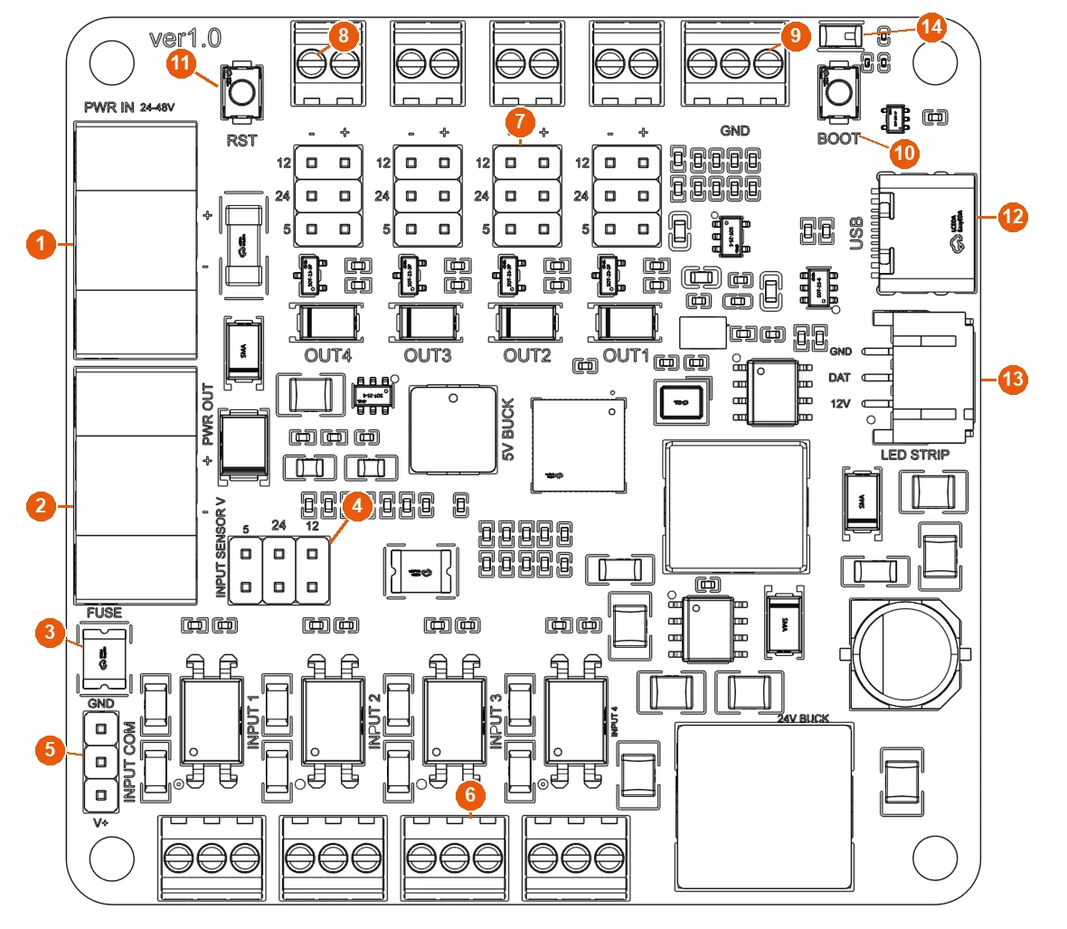
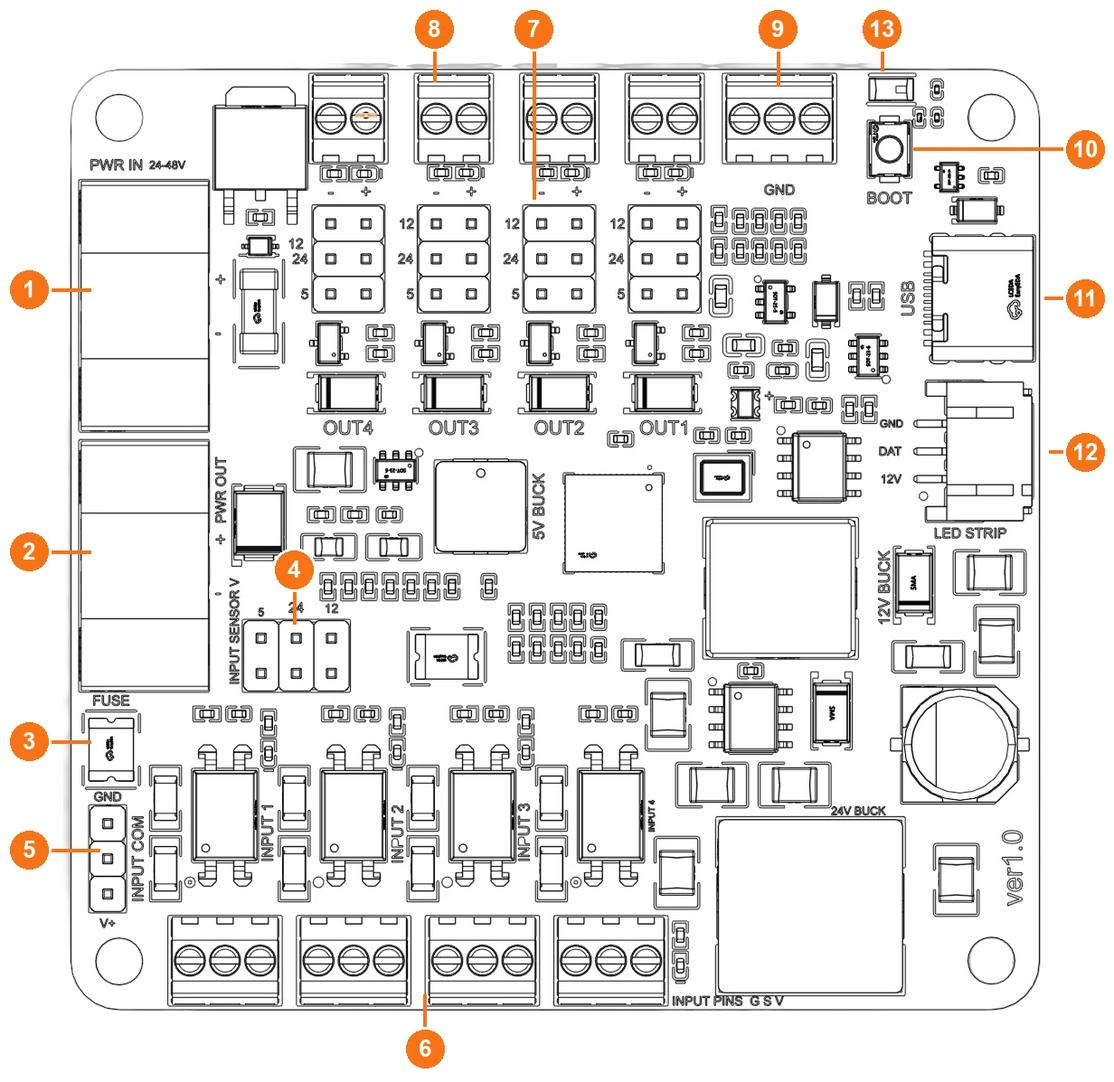
ncWirelessIO page: real board images for every port and jumper
Replace the drawn diagrams with crops of the board render, with the
shunt positions and wires drawn on top: power in/out, the input row,
INPUT SENSOR V and INPUT COM settings, the output row and an output
jumper, NPN/PNP/switch sensors on INPUT 1, a solenoid on OUT1 and the
LED strip. The numbered map uses the updated line drawing (RST is gone,
"INPUT PINS: G S V" is printed beside the inputs), renumbered 1-13.

Claude-Session: https://claude.ai/code/session_01Xn5gzCDA1tBYBqbFbZJGj5

diff --git a/docs/assets/css/custom.css b/docs/assets/css/custom.css
@@ -211,5 +211,6 @@ img.placeholder[src$=".webp"]::after {
 
 /* ncWirelessIO wiring diagrams: inline SVG drawn in currentColor, so they follow the theme. */
 .wio-fig { margin: 1rem 0; text-align: center; }
+.wio-fig img { max-height: 26rem; width: auto; max-width: 100%; }
 .wio-fig svg.wio-svg { max-width: 100%; height: auto; color: var(--md-default-fg-color); }
 .wio-fig figcaption { font-size: 0.75rem; color: var(--md-default-fg-color--light); }

diff --git a/docs/accessories/ncwirelessio.md b/docs/accessories/ncwirelessio.md
@@ -46,18 +46,17 @@ Everything is printed on the board. The numbers below match the picture.
 | 3 | **FUSE** | Resettable fuse for the sensor supply |
 | 4 | **INPUT SENSOR V** `5` `24` `12` | Jumper: the voltage on every input's `V` screw |
 | 5 | **INPUT COM** `GND` … `V+` | Jumper: PNP or NPN sensors |
-| 6 | **INPUT 1** … **INPUT 4** (left to right) | Input terminals, 3 screws each: `G` `S` `V` |
+| 6 | **INPUT 1** … **INPUT 4** (left to right) | Input terminals. **INPUT PINS: G S V** is printed beside them |
 | 7 | Output jumpers, rows `12` `24` `5` | One per output, above its terminal: that output's voltage |
 | 8 | Output terminals `−` `+` | One per output. From the left: **OUT4**, **OUT3**, **OUT2**, **OUT1** (printed below the jumpers) |
 | 9 | **GND** | Three spare ground screws |
 | 10 | **BOOT** | Pairing button |
-| 11 | **RST** | Restarts the board |
-| 12 | **USB** | USB-C |
-| 13 | **LED STRIP** `GND` `DAT` `12V` | Plug for the LED strip |
-| 14 | Status light | Shows machine state and pairing (see [Status light](#status-light)) |
+| 11 | **USB** | USB-C |
+| 12 | **LED STRIP** `GND` `DAT` `12V` | Plug for the LED strip |
+| 13 | Status light | Shows machine state and pairing (see [Status light](#status-light)) |
 
-The underside repeats the terminal names (**INPUT 1** … and `V S G`), so you can
-check your wiring with the board turned over.
+The underside repeats the terminal names (**INPUT 1** … and `V S G`, mirrored), so
+you can check your wiring with the board turned over.
 
 ## Power
 
@@ -65,8 +64,8 @@ Connect a **24–48 V DC** supply to **PWR IN**: `+` to the supply's positive,
 `−` to its negative.
 
 <figure class="wio-fig" markdown>
-<svg class="wio-svg" viewBox="0 0 670 160" width="670" role="img" aria-label="Power supply to PWR IN; PWR OUT passes the same supply on to another device" xmlns="http://www.w3.org/2000/svg" font-family="ui-sans-serif,system-ui,sans-serif" font-size="13"><rect x="20" y="40" width="150" height="70" rx="8" fill="none" stroke="currentColor" stroke-width="1.5"/><text x="95" y="70" text-anchor="middle" font-size="13" font-weight="600" fill="currentColor">Power supply</text><text x="95" y="90" text-anchor="middle" font-size="11" fill="#9ca3af">24–48 V DC</text><rect x="250" y="48" width="80" height="54" rx="4" fill="#16a34a" fill-opacity="0.18" stroke="#16a34a" stroke-width="1.5"/><circle cx="273" cy="66" r="9" fill="none" stroke="currentColor" stroke-width="1.5"/><line x1="267" y1="66" x2="279" y2="66" stroke="currentColor" stroke-width="1.5"/><rect x="265" y="82" width="16" height="12" rx="1" fill="none" stroke="currentColor" stroke-width="1.2"/><text x="273" y="120" text-anchor="middle" font-size="13" font-weight="600" fill="currentColor">+</text><circle cx="307" cy="66" r="9" fill="none" stroke="currentColor" stroke-width="1.5"/><line x1="301" y1="66" x2="313" y2="66" stroke="currentColor" stroke-width="1.5"/><rect x="299" y="82" width="16" height="12" rx="1" fill="none" stroke="currentColor" stroke-width="1.2"/><text x="307" y="120" text-anchor="middle" font-size="13" font-weight="600" fill="currentColor">−</text><text x="290.0" y="142" text-anchor="middle" font-size="12" font-weight="600" fill="#16a34a">PWR IN</text><path d="M170,58 L273,58" fill="none" stroke="#ef4444" stroke-width="3" stroke-linejoin="round" stroke-linecap="round"/><path d="M170,90 L215,90 L215,40 L307,40 L307,57" fill="none" stroke="#6b7280" stroke-width="3" stroke-linejoin="round" stroke-linecap="round"/><rect x="390" y="48" width="80" height="54" rx="4" fill="#16a34a" fill-opacity="0.18" stroke="#16a34a" stroke-width="1.5"/><circle cx="413" cy="66" r="9" fill="none" stroke="currentColor" stroke-width="1.5"/><line x1="407" y1="66" x2="419" y2="66" stroke="currentColor" stroke-width="1.5"/><rect x="405" y="82" width="16" height="12" rx="1" fill="none" stroke="currentColor" stroke-width="1.2"/><text x="413" y="120" text-anchor="middle" font-size="13" font-weight="600" fill="currentColor">+</text><circle cx="447" cy="66" r="9" fill="none" stroke="currentColor" stroke-width="1.5"/><line x1="441" y1="66" x2="453" y2="66" stroke="currentColor" stroke-width="1.5"/><rect x="439" y="82" width="16" height="12" rx="1" fill="none" stroke="currentColor" stroke-width="1.2"/><text x="447" y="120" text-anchor="middle" font-size="13" font-weight="600" fill="currentColor">−</text><text x="430.0" y="142" text-anchor="middle" font-size="12" font-weight="600" fill="#16a34a">PWR OUT</text><rect x="520" y="40" width="130" height="70" rx="8" fill="none" stroke="currentColor" stroke-width="1.5" stroke-dasharray="5 4"/><text x="585" y="70" text-anchor="middle" font-size="13" font-weight="600" fill="currentColor">Next device</text><text x="585" y="90" text-anchor="middle" font-size="11" fill="#9ca3af">(optional)</text><path d="M413,57 L413,30 L500,30 L500,60 L520,60" fill="none" stroke="#ef4444" stroke-width="3" stroke-linejoin="round" stroke-linecap="round"/><path d="M447,57 L447,38 L492,38 L492,90 L520,90" fill="none" stroke="#6b7280" stroke-width="3" stroke-linejoin="round" stroke-linecap="round"/></svg>
-<figcaption>PWR IN from the supply. PWR OUT can feed another device.</figcaption>
+![](../assets/images/accessories/ncwirelessio-power.webp)
+<figcaption>PWR IN from the supply (red +, black −). PWR OUT can feed another device.</figcaption>
 </figure>
 
 - Wired backwards, the board stays off and nothing is damaged. Swap the wires.
@@ -84,8 +83,8 @@ Connect a **24–48 V DC** supply to **PWR IN**: `+` to the supply's positive,
 Each input has a 3-screw terminal:
 
 <figure class="wio-fig" markdown>
-<svg class="wio-svg" viewBox="0 0 180 125" width="180" role="img" aria-label="Input terminal pins: G ground, S signal, V sensor supply" xmlns="http://www.w3.org/2000/svg" font-family="ui-sans-serif,system-ui,sans-serif" font-size="13"><rect x="30" y="20" width="114" height="54" rx="4" fill="#16a34a" fill-opacity="0.18" stroke="#16a34a" stroke-width="1.5"/><circle cx="53" cy="38" r="9" fill="none" stroke="currentColor" stroke-width="1.5"/><line x1="47" y1="38" x2="59" y2="38" stroke="currentColor" stroke-width="1.5"/><rect x="45" y="54" width="16" height="12" rx="1" fill="none" stroke="currentColor" stroke-width="1.2"/><text x="53" y="92" text-anchor="middle" font-size="13" font-weight="600" fill="currentColor">G</text><circle cx="87" cy="38" r="9" fill="none" stroke="currentColor" stroke-width="1.5"/><line x1="81" y1="38" x2="93" y2="38" stroke="currentColor" stroke-width="1.5"/><rect x="79" y="54" width="16" height="12" rx="1" fill="none" stroke="currentColor" stroke-width="1.2"/><text x="87" y="92" text-anchor="middle" font-size="13" font-weight="600" fill="currentColor">S</text><circle cx="121" cy="38" r="9" fill="none" stroke="currentColor" stroke-width="1.5"/><line x1="115" y1="38" x2="127" y2="38" stroke="currentColor" stroke-width="1.5"/><rect x="113" y="54" width="16" height="12" rx="1" fill="none" stroke="currentColor" stroke-width="1.2"/><text x="121" y="92" text-anchor="middle" font-size="13" font-weight="600" fill="currentColor">V</text><text x="87.0" y="114" text-anchor="middle" font-size="12" font-weight="600" fill="#16a34a">INPUT 1 … INPUT 4</text></svg>
-<figcaption>Every input terminal is the same.</figcaption>
+![](../assets/images/accessories/ncwirelessio-inputs.webp)
+<figcaption>INPUT 1 to INPUT 4, left to right. Every terminal is G, S, V.</figcaption>
 </figure>
 
 | Screw | Name | Wire it to |
@@ -104,8 +103,8 @@ The `V` screw on all four inputs carries the same voltage. Choose it with the
 `24` and `12`:
 
 <figure class="wio-fig" markdown>
-<svg class="wio-svg" viewBox="0 0 560 140" width="560" role="img" aria-label="INPUT SENSOR V jumper: columns printed 5, 24, 12. 5 V and 12 V use the bottom row, 24 V goes down the middle column" xmlns="http://www.w3.org/2000/svg" font-family="ui-sans-serif,system-ui,sans-serif" font-size="13"><text x="84" y="20" text-anchor="middle" font-size="13" font-weight="600" fill="currentColor">5 V</text><rect x="37" y="81" width="60" height="26" rx="5" fill="#f97316" fill-opacity="0.35" stroke="#f97316" stroke-width="2"/><rect x="41" y="85" width="18" height="18" rx="2" fill="none" stroke="currentColor" stroke-width="1.5"/><circle cx="50" cy="94" r="3.5" fill="currentColor"/><rect x="75" y="85" width="18" height="18" rx="2" fill="none" stroke="currentColor" stroke-width="1.5"/><circle cx="84" cy="94" r="3.5" fill="currentColor"/><rect x="109" y="85" width="18" height="18" rx="2" fill="none" stroke="currentColor" stroke-width="1.5"/><circle cx="118" cy="94" r="3.5" fill="currentColor"/><rect x="75" y="51" width="18" height="18" rx="2" fill="none" stroke="currentColor" stroke-width="1.5"/><circle cx="84" cy="60" r="3.5" fill="currentColor"/><rect x="41" y="51" width="18" height="18" rx="2" fill="none" stroke="currentColor" stroke-width="1.5"/><circle cx="50" cy="60" r="3.5" fill="currentColor"/><rect x="109" y="51" width="18" height="18" rx="2" fill="none" stroke="currentColor" stroke-width="1.5"/><circle cx="118" cy="60" r="3.5" fill="currentColor"/><text x="50" y="43" text-anchor="middle" font-size="12" font-weight="600" fill="currentColor">5</text><text x="84" y="43" text-anchor="middle" font-size="12" font-weight="600" fill="currentColor">24</text><text x="118" y="43" text-anchor="middle" font-size="12" font-weight="600" fill="currentColor">12</text><text x="274" y="20" text-anchor="middle" font-size="13" font-weight="600" fill="currentColor">24 V</text><rect x="261" y="47" width="26" height="60" rx="5" fill="#f97316" fill-opacity="0.35" stroke="#f97316" stroke-width="2"/><rect x="231" y="85" width="18" height="18" rx="2" fill="none" stroke="currentColor" stroke-width="1.5"/><circle cx="240" cy="94" r="3.5" fill="currentColor"/><rect x="265" y="85" width="18" height="18" rx="2" fill="none" stroke="currentColor" stroke-width="1.5"/><circle cx="274" cy="94" r="3.5" fill="currentColor"/><rect x="299" y="85" width="18" height="18" rx="2" fill="none" stroke="currentColor" stroke-width="1.5"/><circle cx="308" cy="94" r="3.5" fill="currentColor"/><rect x="265" y="51" width="18" height="18" rx="2" fill="none" stroke="currentColor" stroke-width="1.5"/><circle cx="274" cy="60" r="3.5" fill="currentColor"/><rect x="231" y="51" width="18" height="18" rx="2" fill="none" stroke="currentColor" stroke-width="1.5"/><circle cx="240" cy="60" r="3.5" fill="currentColor"/><rect x="299" y="51" width="18" height="18" rx="2" fill="none" stroke="currentColor" stroke-width="1.5"/><circle cx="308" cy="60" r="3.5" fill="currentColor"/><text x="240" y="43" text-anchor="middle" font-size="12" font-weight="600" fill="currentColor">5</text><text x="274" y="43" text-anchor="middle" font-size="12" font-weight="600" fill="currentColor">24</text><text x="308" y="43" text-anchor="middle" font-size="12" font-weight="600" fill="currentColor">12</text><text x="464" y="20" text-anchor="middle" font-size="13" font-weight="600" fill="currentColor">12 V</text><rect x="451" y="81" width="60" height="26" rx="5" fill="#f97316" fill-opacity="0.35" stroke="#f97316" stroke-width="2"/><rect x="421" y="85" width="18" height="18" rx="2" fill="none" stroke="currentColor" stroke-width="1.5"/><circle cx="430" cy="94" r="3.5" fill="currentColor"/><rect x="455" y="85" width="18" height="18" rx="2" fill="none" stroke="currentColor" stroke-width="1.5"/><circle cx="464" cy="94" r="3.5" fill="currentColor"/><rect x="489" y="85" width="18" height="18" rx="2" fill="none" stroke="currentColor" stroke-width="1.5"/><circle cx="498" cy="94" r="3.5" fill="currentColor"/><rect x="455" y="51" width="18" height="18" rx="2" fill="none" stroke="currentColor" stroke-width="1.5"/><circle cx="464" cy="60" r="3.5" fill="currentColor"/><rect x="421" y="51" width="18" height="18" rx="2" fill="none" stroke="currentColor" stroke-width="1.5"/><circle cx="430" cy="60" r="3.5" fill="currentColor"/><rect x="489" y="51" width="18" height="18" rx="2" fill="none" stroke="currentColor" stroke-width="1.5"/><circle cx="498" cy="60" r="3.5" fill="currentColor"/><text x="430" y="43" text-anchor="middle" font-size="12" font-weight="600" fill="currentColor">5</text><text x="464" y="43" text-anchor="middle" font-size="12" font-weight="600" fill="currentColor">24</text><text x="498" y="43" text-anchor="middle" font-size="12" font-weight="600" fill="currentColor">12</text></svg>
-<figcaption>INPUT SENSOR V, as it sits on the board.</figcaption>
+![](../assets/images/accessories/ncwirelessio-insel.webp)
+<figcaption>INPUT SENSOR V: where the shunt goes for 5, 24 and 12 V.</figcaption>
 </figure>
 
 | Voltage | Shunt position |
@@ -124,8 +123,8 @@ The **INPUT COM** jumper (**5** in the picture) sets the sensor type for all
 four inputs. Its three pins run top to bottom: `GND`, COM, `V+`.
 
 <figure class="wio-fig" markdown>
-<svg class="wio-svg" viewBox="0 0 560 170" width="560" role="img" aria-label="INPUT COM jumper: shunt on COM and V+ for NPN sensors, on COM and GND for PNP sensors and switches" xmlns="http://www.w3.org/2000/svg" font-family="ui-sans-serif,system-ui,sans-serif" font-size="13"><text x="150" y="20" text-anchor="middle" font-size="12" font-weight="600" fill="currentColor">V+ side</text><rect x="137" y="71" width="26" height="60" rx="5" fill="#f97316" fill-opacity="0.35" stroke="#f97316" stroke-width="2"/><rect x="141" y="41" width="18" height="18" rx="2" fill="none" stroke="currentColor" stroke-width="1.5"/><circle cx="150" cy="50" r="3.5" fill="currentColor"/><text x="172" y="55" text-anchor="start" font-size="12" font-weight="600" fill="currentColor">GND</text><rect x="141" y="75" width="18" height="18" rx="2" fill="none" stroke="currentColor" stroke-width="1.5"/><circle cx="150" cy="84" r="3.5" fill="currentColor"/><text x="172" y="89" text-anchor="start" font-size="12" font-weight="600" fill="currentColor">COM</text><rect x="141" y="109" width="18" height="18" rx="2" fill="none" stroke="currentColor" stroke-width="1.5"/><circle cx="150" cy="118" r="3.5" fill="currentColor"/><text x="172" y="123" text-anchor="start" font-size="12" font-weight="600" fill="currentColor">V+</text><text x="170" y="162" text-anchor="middle" font-size="12" fill="#9ca3af">NPN sensors</text><text x="400" y="20" text-anchor="middle" font-size="12" font-weight="600" fill="currentColor">GND side</text><rect x="387" y="37" width="26" height="60" rx="5" fill="#f97316" fill-opacity="0.35" stroke="#f97316" stroke-width="2"/><rect x="391" y="41" width="18" height="18" rx="2" fill="none" stroke="currentColor" stroke-width="1.5"/><circle cx="400" cy="50" r="3.5" fill="currentColor"/><text x="422" y="55" text-anchor="start" font-size="12" font-weight="600" fill="currentColor">GND</text><rect x="391" y="75" width="18" height="18" rx="2" fill="none" stroke="currentColor" stroke-width="1.5"/><circle cx="400" cy="84" r="3.5" fill="currentColor"/><text x="422" y="89" text-anchor="start" font-size="12" font-weight="600" fill="currentColor">COM</text><rect x="391" y="109" width="18" height="18" rx="2" fill="none" stroke="currentColor" stroke-width="1.5"/><circle cx="400" cy="118" r="3.5" fill="currentColor"/><text x="422" y="123" text-anchor="start" font-size="12" font-weight="600" fill="currentColor">V+</text><text x="420" y="162" text-anchor="middle" font-size="12" fill="#9ca3af">PNP sensors, plain switches</text></svg>
-<figcaption>One setting for all four inputs.</figcaption>
+![](../assets/images/accessories/ncwirelessio-com.webp)
+<figcaption>INPUT COM: one setting for all four inputs.</figcaption>
 </figure>
 
 | Shunt position | Use it for |
@@ -142,7 +141,7 @@ either setting if you wire it between `S` and the right screw: `S`–`V` with
 === "NPN sensor"
 
     <figure class="wio-fig" markdown>
-    <svg class="wio-svg" viewBox="0 0 460 290" width="460" role="img" aria-label="NPN sensor wiring" xmlns="http://www.w3.org/2000/svg" font-family="ui-sans-serif,system-ui,sans-serif" font-size="13"><rect x="20" y="20" width="150" height="70" rx="8" fill="none" stroke="currentColor" stroke-width="1.5"/><text x="95" y="50" text-anchor="middle" font-size="13" font-weight="600" fill="currentColor">NPN sensor</text><text x="95" y="70" text-anchor="middle" font-size="11" fill="#9ca3af">3-wire, e.g. inductive prox</text><rect x="290" y="130" width="114" height="54" rx="4" fill="#16a34a" fill-opacity="0.18" stroke="#16a34a" stroke-width="1.5"/><circle cx="313" cy="148" r="9" fill="none" stroke="currentColor" stroke-width="1.5"/><line x1="307" y1="148" x2="319" y2="148" stroke="currentColor" stroke-width="1.5"/><rect x="305" y="164" width="16" height="12" rx="1" fill="none" stroke="currentColor" stroke-width="1.2"/><text x="313" y="202" text-anchor="middle" font-size="13" font-weight="600" fill="currentColor">G</text><circle cx="347" cy="148" r="9" fill="none" stroke="currentColor" stroke-width="1.5"/><line x1="341" y1="148" x2="353" y2="148" stroke="currentColor" stroke-width="1.5"/><rect x="339" y="164" width="16" height="12" rx="1" fill="none" stroke="currentColor" stroke-width="1.2"/><text x="347" y="202" text-anchor="middle" font-size="13" font-weight="600" fill="currentColor">S</text><circle cx="381" cy="148" r="9" fill="none" stroke="currentColor" stroke-width="1.5"/><line x1="375" y1="148" x2="387" y2="148" stroke="currentColor" stroke-width="1.5"/><rect x="373" y="164" width="16" height="12" rx="1" fill="none" stroke="currentColor" stroke-width="1.2"/><text x="381" y="202" text-anchor="middle" font-size="13" font-weight="600" fill="currentColor">V</text><text x="347.0" y="224" text-anchor="middle" font-size="12" font-weight="600" fill="#16a34a">INPUT 1</text><path d="M170,38 L250,38 L250,100 L381,100 L381,139" fill="none" stroke="#a16207" stroke-width="3" stroke-linejoin="round" stroke-linecap="round"/><path d="M170,55 L235,55 L235,112 L347,112 L347,139" fill="none" stroke="#6b7280" stroke-width="3" stroke-linejoin="round" stroke-linecap="round"/><path d="M170,72 L220,72 L220,124 L313,124 L313,139" fill="none" stroke="#3b82f6" stroke-width="3" stroke-linejoin="round" stroke-linecap="round"/><text x="196" y="33" text-anchor="middle" font-size="11" fill="#a16207">brown</text><text x="196" y="51" text-anchor="middle" font-size="11" fill="#6b7280">black</text><text x="196" y="68" text-anchor="middle" font-size="11" fill="#3b82f6">blue</text><text x="60" y="120" text-anchor="middle" font-size="12" font-weight="600" fill="currentColor">INPUT COM</text><rect x="47" y="171" width="26" height="60" rx="5" fill="#f97316" fill-opacity="0.35" stroke="#f97316" stroke-width="2"/><rect x="51" y="141" width="18" height="18" rx="2" fill="none" stroke="currentColor" stroke-width="1.5"/><circle cx="60" cy="150" r="3.5" fill="currentColor"/><text x="82" y="155" text-anchor="start" font-size="12" font-weight="600" fill="currentColor">GND</text><rect x="51" y="175" width="18" height="18" rx="2" fill="none" stroke="currentColor" stroke-width="1.5"/><circle cx="60" cy="184" r="3.5" fill="currentColor"/><text x="82" y="189" text-anchor="start" font-size="12" font-weight="600" fill="currentColor">COM</text><rect x="51" y="209" width="18" height="18" rx="2" fill="none" stroke="currentColor" stroke-width="1.5"/><circle cx="60" cy="218" r="3.5" fill="currentColor"/><text x="82" y="223" text-anchor="start" font-size="12" font-weight="600" fill="currentColor">V+</text><text x="230" y="280" text-anchor="middle" font-size="12" fill="#9ca3af">Sensor supply jumper set to the sensor's voltage (often 24 V or 12 V).</text></svg>
+    ![](../assets/images/accessories/ncwirelessio-npn.webp)
     </figure>
 
     - **INPUT COM** on the bottom two pins (**V+** side).
@@ -153,7 +152,7 @@ either setting if you wire it between `S` and the right screw: `S`–`V` with
 === "PNP sensor"
 
     <figure class="wio-fig" markdown>
-    <svg class="wio-svg" viewBox="0 0 460 290" width="460" role="img" aria-label="PNP sensor wiring" xmlns="http://www.w3.org/2000/svg" font-family="ui-sans-serif,system-ui,sans-serif" font-size="13"><rect x="20" y="20" width="150" height="70" rx="8" fill="none" stroke="currentColor" stroke-width="1.5"/><text x="95" y="50" text-anchor="middle" font-size="13" font-weight="600" fill="currentColor">PNP sensor</text><text x="95" y="70" text-anchor="middle" font-size="11" fill="#9ca3af">3-wire, e.g. inductive prox</text><rect x="290" y="130" width="114" height="54" rx="4" fill="#16a34a" fill-opacity="0.18" stroke="#16a34a" stroke-width="1.5"/><circle cx="313" cy="148" r="9" fill="none" stroke="currentColor" stroke-width="1.5"/><line x1="307" y1="148" x2="319" y2="148" stroke="currentColor" stroke-width="1.5"/><rect x="305" y="164" width="16" height="12" rx="1" fill="none" stroke="currentColor" stroke-width="1.2"/><text x="313" y="202" text-anchor="middle" font-size="13" font-weight="600" fill="currentColor">G</text><circle cx="347" cy="148" r="9" fill="none" stroke="currentColor" stroke-width="1.5"/><line x1="341" y1="148" x2="353" y2="148" stroke="currentColor" stroke-width="1.5"/><rect x="339" y="164" width="16" height="12" rx="1" fill="none" stroke="currentColor" stroke-width="1.2"/><text x="347" y="202" text-anchor="middle" font-size="13" font-weight="600" fill="currentColor">S</text><circle cx="381" cy="148" r="9" fill="none" stroke="currentColor" stroke-width="1.5"/><line x1="375" y1="148" x2="387" y2="148" stroke="currentColor" stroke-width="1.5"/><rect x="373" y="164" width="16" height="12" rx="1" fill="none" stroke="currentColor" stroke-width="1.2"/><text x="381" y="202" text-anchor="middle" font-size="13" font-weight="600" fill="currentColor">V</text><text x="347.0" y="224" text-anchor="middle" font-size="12" font-weight="600" fill="#16a34a">INPUT 1</text><path d="M170,38 L250,38 L250,100 L381,100 L381,139" fill="none" stroke="#a16207" stroke-width="3" stroke-linejoin="round" stroke-linecap="round"/><path d="M170,55 L235,55 L235,112 L347,112 L347,139" fill="none" stroke="#6b7280" stroke-width="3" stroke-linejoin="round" stroke-linecap="round"/><path d="M170,72 L220,72 L220,124 L313,124 L313,139" fill="none" stroke="#3b82f6" stroke-width="3" stroke-linejoin="round" stroke-linecap="round"/><text x="196" y="33" text-anchor="middle" font-size="11" fill="#a16207">brown</text><text x="196" y="51" text-anchor="middle" font-size="11" fill="#6b7280">black</text><text x="196" y="68" text-anchor="middle" font-size="11" fill="#3b82f6">blue</text><text x="60" y="120" text-anchor="middle" font-size="12" font-weight="600" fill="currentColor">INPUT COM</text><rect x="47" y="137" width="26" height="60" rx="5" fill="#f97316" fill-opacity="0.35" stroke="#f97316" stroke-width="2"/><rect x="51" y="141" width="18" height="18" rx="2" fill="none" stroke="currentColor" stroke-width="1.5"/><circle cx="60" cy="150" r="3.5" fill="currentColor"/><text x="82" y="155" text-anchor="start" font-size="12" font-weight="600" fill="currentColor">GND</text><rect x="51" y="175" width="18" height="18" rx="2" fill="none" stroke="currentColor" stroke-width="1.5"/><circle cx="60" cy="184" r="3.5" fill="currentColor"/><text x="82" y="189" text-anchor="start" font-size="12" font-weight="600" fill="currentColor">COM</text><rect x="51" y="209" width="18" height="18" rx="2" fill="none" stroke="currentColor" stroke-width="1.5"/><circle cx="60" cy="218" r="3.5" fill="currentColor"/><text x="82" y="223" text-anchor="start" font-size="12" font-weight="600" fill="currentColor">V+</text><text x="230" y="280" text-anchor="middle" font-size="12" fill="#9ca3af">Same wire colours as NPN; only the COM jumper changes.</text></svg>
+    ![](../assets/images/accessories/ncwirelessio-pnp.webp)
     </figure>
 
     - **INPUT COM** on the top two pins (**GND** side).
@@ -163,7 +162,7 @@ either setting if you wire it between `S` and the right screw: `S`–`V` with
 === "Switch"
 
     <figure class="wio-fig" markdown>
-    <svg class="wio-svg" viewBox="0 0 460 290" width="460" role="img" aria-label="Plain switch wiring: between V and S, COM jumper on GND" xmlns="http://www.w3.org/2000/svg" font-family="ui-sans-serif,system-ui,sans-serif" font-size="13"><rect x="20" y="30" width="150" height="70" rx="8" fill="none" stroke="currentColor" stroke-width="1.5"/><text x="95" y="58" text-anchor="middle" font-size="13" font-weight="600" fill="currentColor">Switch</text><text x="95" y="78" text-anchor="middle" font-size="11" fill="#9ca3af">limit, reed, pressure</text><rect x="290" y="130" width="114" height="54" rx="4" fill="#16a34a" fill-opacity="0.18" stroke="#16a34a" stroke-width="1.5"/><circle cx="313" cy="148" r="9" fill="none" stroke="currentColor" stroke-width="1.5"/><line x1="307" y1="148" x2="319" y2="148" stroke="currentColor" stroke-width="1.5"/><rect x="305" y="164" width="16" height="12" rx="1" fill="none" stroke="currentColor" stroke-width="1.2"/><text x="313" y="202" text-anchor="middle" font-size="13" font-weight="600" fill="currentColor">G</text><circle cx="347" cy="148" r="9" fill="none" stroke="currentColor" stroke-width="1.5"/><line x1="341" y1="148" x2="353" y2="148" stroke="currentColor" stroke-width="1.5"/><rect x="339" y="164" width="16" height="12" rx="1" fill="none" stroke="currentColor" stroke-width="1.2"/><text x="347" y="202" text-anchor="middle" font-size="13" font-weight="600" fill="currentColor">S</text><circle cx="381" cy="148" r="9" fill="none" stroke="currentColor" stroke-width="1.5"/><line x1="375" y1="148" x2="387" y2="148" stroke="currentColor" stroke-width="1.5"/><rect x="373" y="164" width="16" height="12" rx="1" fill="none" stroke="currentColor" stroke-width="1.2"/><text x="381" y="202" text-anchor="middle" font-size="13" font-weight="600" fill="currentColor">V</text><text x="347.0" y="224" text-anchor="middle" font-size="12" font-weight="600" fill="#16a34a">INPUT 2</text><path d="M170,50 L250,50 L250,100 L381,100 L381,139" fill="none" stroke="#ef4444" stroke-width="3" stroke-linejoin="round" stroke-linecap="round"/><path d="M170,80 L235,80 L235,112 L347,112 L347,139" fill="none" stroke="#6b7280" stroke-width="3" stroke-linejoin="round" stroke-linecap="round"/><text x="60" y="120" text-anchor="middle" font-size="12" font-weight="600" fill="currentColor">INPUT COM</text><rect x="47" y="137" width="26" height="60" rx="5" fill="#f97316" fill-opacity="0.35" stroke="#f97316" stroke-width="2"/><rect x="51" y="141" width="18" height="18" rx="2" fill="none" stroke="currentColor" stroke-width="1.5"/><circle cx="60" cy="150" r="3.5" fill="currentColor"/><text x="82" y="155" text-anchor="start" font-size="12" font-weight="600" fill="currentColor">GND</text><rect x="51" y="175" width="18" height="18" rx="2" fill="none" stroke="currentColor" stroke-width="1.5"/><circle cx="60" cy="184" r="3.5" fill="currentColor"/><text x="82" y="189" text-anchor="start" font-size="12" font-weight="600" fill="currentColor">COM</text><rect x="51" y="209" width="18" height="18" rx="2" fill="none" stroke="currentColor" stroke-width="1.5"/><circle cx="60" cy="218" r="3.5" fill="currentColor"/><text x="82" y="223" text-anchor="start" font-size="12" font-weight="600" fill="currentColor">V+</text><text x="230" y="280" text-anchor="middle" font-size="12" fill="#9ca3af">G is not used. Any sensor-supply setting works; 5 V is gentlest.</text></svg>
+    ![](../assets/images/accessories/ncwirelessio-switch.webp)
     </figure>
 
     For limit switches, reed switches, pressure switches and similar dry
@@ -178,8 +177,8 @@ either setting if you wire it between `S` and the right screw: `S`–`V` with
 Each output has a 2-screw terminal and its own voltage jumper.
 
 <figure class="wio-fig" markdown>
-<svg class="wio-svg" viewBox="0 0 170 125" width="170" role="img" aria-label="Output terminal: + always-on supply, − switched to ground when the output is on" xmlns="http://www.w3.org/2000/svg" font-family="ui-sans-serif,system-ui,sans-serif" font-size="13"><rect x="40" y="20" width="80" height="54" rx="4" fill="#16a34a" fill-opacity="0.18" stroke="#16a34a" stroke-width="1.5"/><circle cx="63" cy="38" r="9" fill="none" stroke="currentColor" stroke-width="1.5"/><line x1="57" y1="38" x2="69" y2="38" stroke="currentColor" stroke-width="1.5"/><rect x="55" y="54" width="16" height="12" rx="1" fill="none" stroke="currentColor" stroke-width="1.2"/><text x="63" y="92" text-anchor="middle" font-size="13" font-weight="600" fill="currentColor">−</text><circle cx="97" cy="38" r="9" fill="none" stroke="currentColor" stroke-width="1.5"/><line x1="91" y1="38" x2="103" y2="38" stroke="currentColor" stroke-width="1.5"/><rect x="89" y="54" width="16" height="12" rx="1" fill="none" stroke="currentColor" stroke-width="1.2"/><text x="97" y="92" text-anchor="middle" font-size="13" font-weight="600" fill="currentColor">+</text><text x="80.0" y="114" text-anchor="middle" font-size="12" font-weight="600" fill="#16a34a">OUT1 … OUT4</text></svg>
-<figcaption>Every output terminal is the same.</figcaption>
+![](../assets/images/accessories/ncwirelessio-outputs.webp)
+<figcaption>OUT4 to OUT1, left to right. Each output: terminal − +, its jumper below.</figcaption>
 </figure>
 
 | Screw | What it does |
@@ -196,8 +195,8 @@ Each output has its own jumper, directly above its terminal (**7** in the
 picture). Its rows are printed `12`, `24` and `5` from the top:
 
 <figure class="wio-fig" markdown>
-<svg class="wio-svg" viewBox="0 0 560 150" width="560" role="img" aria-label="Output jumper: rows printed 12, 24, 5. 12 V and 5 V use the right column, 24 V goes across the middle row" xmlns="http://www.w3.org/2000/svg" font-family="ui-sans-serif,system-ui,sans-serif" font-size="13"><text x="107" y="24" text-anchor="middle" font-size="13" font-weight="600" fill="currentColor">12 V</text><rect x="111" y="37" width="26" height="60" rx="5" fill="#f97316" fill-opacity="0.35" stroke="#f97316" stroke-width="2"/><rect x="115" y="41" width="18" height="18" rx="2" fill="none" stroke="currentColor" stroke-width="1.5"/><circle cx="124" cy="50" r="3.5" fill="currentColor"/><rect x="115" y="75" width="18" height="18" rx="2" fill="none" stroke="currentColor" stroke-width="1.5"/><circle cx="124" cy="84" r="3.5" fill="currentColor"/><rect x="115" y="109" width="18" height="18" rx="2" fill="none" stroke="currentColor" stroke-width="1.5"/><circle cx="124" cy="118" r="3.5" fill="currentColor"/><rect x="81" y="75" width="18" height="18" rx="2" fill="none" stroke="currentColor" stroke-width="1.5"/><circle cx="90" cy="84" r="3.5" fill="currentColor"/><rect x="81" y="41" width="18" height="18" rx="2" fill="none" stroke="currentColor" stroke-width="1.5"/><circle cx="90" cy="50" r="3.5" fill="currentColor"/><rect x="81" y="109" width="18" height="18" rx="2" fill="none" stroke="currentColor" stroke-width="1.5"/><circle cx="90" cy="118" r="3.5" fill="currentColor"/><text x="68" y="55" text-anchor="end" font-size="12" font-weight="600" fill="currentColor">12</text><text x="68" y="89" text-anchor="end" font-size="12" font-weight="600" fill="currentColor">24</text><text x="68" y="123" text-anchor="end" font-size="12" font-weight="600" fill="currentColor">5</text><text x="287" y="24" text-anchor="middle" font-size="13" font-weight="600" fill="currentColor">24 V</text><rect x="257" y="71" width="60" height="26" rx="5" fill="#f97316" fill-opacity="0.35" stroke="#f97316" stroke-width="2"/><rect x="295" y="41" width="18" height="18" rx="2" fill="none" stroke="currentColor" stroke-width="1.5"/><circle cx="304" cy="50" r="3.5" fill="currentColor"/><rect x="295" y="75" width="18" height="18" rx="2" fill="none" stroke="currentColor" stroke-width="1.5"/><circle cx="304" cy="84" r="3.5" fill="currentColor"/><rect x="295" y="109" width="18" height="18" rx="2" fill="none" stroke="currentColor" stroke-width="1.5"/><circle cx="304" cy="118" r="3.5" fill="currentColor"/><rect x="261" y="75" width="18" height="18" rx="2" fill="none" stroke="currentColor" stroke-width="1.5"/><circle cx="270" cy="84" r="3.5" fill="currentColor"/><rect x="261" y="41" width="18" height="18" rx="2" fill="none" stroke="currentColor" stroke-width="1.5"/><circle cx="270" cy="50" r="3.5" fill="currentColor"/><rect x="261" y="109" width="18" height="18" rx="2" fill="none" stroke="currentColor" stroke-width="1.5"/><circle cx="270" cy="118" r="3.5" fill="currentColor"/><text x="248" y="55" text-anchor="end" font-size="12" font-weight="600" fill="currentColor">12</text><text x="248" y="89" text-anchor="end" font-size="12" font-weight="600" fill="currentColor">24</text><text x="248" y="123" text-anchor="end" font-size="12" font-weight="600" fill="currentColor">5</text><text x="467" y="24" text-anchor="middle" font-size="13" font-weight="600" fill="currentColor">5 V</text><rect x="471" y="71" width="26" height="60" rx="5" fill="#f97316" fill-opacity="0.35" stroke="#f97316" stroke-width="2"/><rect x="475" y="41" width="18" height="18" rx="2" fill="none" stroke="currentColor" stroke-width="1.5"/><circle cx="484" cy="50" r="3.5" fill="currentColor"/><rect x="475" y="75" width="18" height="18" rx="2" fill="none" stroke="currentColor" stroke-width="1.5"/><circle cx="484" cy="84" r="3.5" fill="currentColor"/><rect x="475" y="109" width="18" height="18" rx="2" fill="none" stroke="currentColor" stroke-width="1.5"/><circle cx="484" cy="118" r="3.5" fill="currentColor"/><rect x="441" y="75" width="18" height="18" rx="2" fill="none" stroke="currentColor" stroke-width="1.5"/><circle cx="450" cy="84" r="3.5" fill="currentColor"/><rect x="441" y="41" width="18" height="18" rx="2" fill="none" stroke="currentColor" stroke-width="1.5"/><circle cx="450" cy="50" r="3.5" fill="currentColor"/><rect x="441" y="109" width="18" height="18" rx="2" fill="none" stroke="currentColor" stroke-width="1.5"/><circle cx="450" cy="118" r="3.5" fill="currentColor"/><text x="428" y="55" text-anchor="end" font-size="12" font-weight="600" fill="currentColor">12</text><text x="428" y="89" text-anchor="end" font-size="12" font-weight="600" fill="currentColor">24</text><text x="428" y="123" text-anchor="end" font-size="12" font-weight="600" fill="currentColor">5</text></svg>
-<figcaption>An output jumper, as it sits on the board.</figcaption>
+![](../assets/images/accessories/ncwirelessio-outsel.webp)
+<figcaption>An output jumper (OUT1 shown): where the shunt goes for 12, 24 and 5 V.</figcaption>
 </figure>
 
 | Voltage | Shunt position |
@@ -215,8 +214,8 @@ Each output can use a different voltage. From the left, the terminals are
 ### Sample wiring: air solenoid
 
 <figure class="wio-fig" markdown>
-<svg class="wio-svg" viewBox="0 0 520 212" width="520" role="img" aria-label="24 V solenoid on OUT1 with the OUT1 jumper across the middle row" xmlns="http://www.w3.org/2000/svg" font-family="ui-sans-serif,system-ui,sans-serif" font-size="13"><text x="87" y="34" text-anchor="middle" font-size="13" font-weight="600" fill="currentColor">OUT1 jumper on 24</text><rect x="57" y="81" width="60" height="26" rx="5" fill="#f97316" fill-opacity="0.35" stroke="#f97316" stroke-width="2"/><rect x="95" y="51" width="18" height="18" rx="2" fill="none" stroke="currentColor" stroke-width="1.5"/><circle cx="104" cy="60" r="3.5" fill="currentColor"/><rect x="95" y="85" width="18" height="18" rx="2" fill="none" stroke="currentColor" stroke-width="1.5"/><circle cx="104" cy="94" r="3.5" fill="currentColor"/><rect x="95" y="119" width="18" height="18" rx="2" fill="none" stroke="currentColor" stroke-width="1.5"/><circle cx="104" cy="128" r="3.5" fill="currentColor"/><rect x="61" y="85" width="18" height="18" rx="2" fill="none" stroke="currentColor" stroke-width="1.5"/><circle cx="70" cy="94" r="3.5" fill="currentColor"/><rect x="61" y="51" width="18" height="18" rx="2" fill="none" stroke="currentColor" stroke-width="1.5"/><circle cx="70" cy="60" r="3.5" fill="currentColor"/><rect x="61" y="119" width="18" height="18" rx="2" fill="none" stroke="currentColor" stroke-width="1.5"/><circle cx="70" cy="128" r="3.5" fill="currentColor"/><text x="48" y="65" text-anchor="end" font-size="12" font-weight="600" fill="currentColor">12</text><text x="48" y="99" text-anchor="end" font-size="12" font-weight="600" fill="currentColor">24</text><text x="48" y="133" text-anchor="end" font-size="12" font-weight="600" fill="currentColor">5</text><rect x="200" y="70" width="80" height="54" rx="4" fill="#16a34a" fill-opacity="0.18" stroke="#16a34a" stroke-width="1.5"/><circle cx="223" cy="88" r="9" fill="none" stroke="currentColor" stroke-width="1.5"/><line x1="217" y1="88" x2="229" y2="88" stroke="currentColor" stroke-width="1.5"/><rect x="215" y="104" width="16" height="12" rx="1" fill="none" stroke="currentColor" stroke-width="1.2"/><text x="223" y="142" text-anchor="middle" font-size="13" font-weight="600" fill="currentColor">−</text><circle cx="257" cy="88" r="9" fill="none" stroke="currentColor" stroke-width="1.5"/><line x1="251" y1="88" x2="263" y2="88" stroke="currentColor" stroke-width="1.5"/><rect x="249" y="104" width="16" height="12" rx="1" fill="none" stroke="currentColor" stroke-width="1.2"/><text x="257" y="142" text-anchor="middle" font-size="13" font-weight="600" fill="currentColor">+</text><text x="240.0" y="164" text-anchor="middle" font-size="12" font-weight="600" fill="#16a34a">OUT1</text><rect x="340" y="40" width="160" height="110" rx="8" fill="none" stroke="currentColor" stroke-width="1.5"/><text x="420" y="80" text-anchor="middle" font-size="13" font-weight="600" fill="currentColor">24 V solenoid</text><text x="420" y="100" text-anchor="middle" font-size="11" fill="#9ca3af">valve coil</text><text x="420" y="118" text-anchor="middle" font-size="11" fill="#9ca3af">(either wire to either pin)</text><path d="M257,79 L257,60 L310,60 L310,70 L340,70" fill="none" stroke="#ef4444" stroke-width="3" stroke-linejoin="round" stroke-linecap="round"/><path d="M223,79 L223,50 L326,50 L326,125 L340,125" fill="none" stroke="#6b7280" stroke-width="3" stroke-linejoin="round" stroke-linecap="round"/><text x="260" y="200" text-anchor="middle" font-size="12" fill="#9ca3af">Jumper across the middle row (24) → OUT1 carries 24 V. The coil runs when OUT1 turns on.</text></svg>
-<figcaption>A 24 V solenoid valve on OUT1.</figcaption>
+![](../assets/images/accessories/ncwirelessio-solenoid.webp)
+<figcaption>A 24 V solenoid valve on OUT1, jumper across the middle row.</figcaption>
 </figure>
 
 1. Set the **OUT1** jumper to `24`, across the middle row (or to your valve's voltage).
@@ -247,7 +246,7 @@ for anything that should not stay on unattended.
 Plug a **12 V WS2811** strip into **LED STRIP**:
 
 <figure class="wio-fig" markdown>
-<svg class="wio-svg" viewBox="0 0 540 135" width="540" role="img" aria-label="LED STRIP port: 12V to strip +12V, DAT to DIN, GND to GND" xmlns="http://www.w3.org/2000/svg" font-family="ui-sans-serif,system-ui,sans-serif" font-size="13"><rect x="20" y="40" width="110" height="80" rx="4" fill="none" stroke="currentColor" stroke-width="1.5"/><text x="75" y="30" text-anchor="middle" font-size="12" font-weight="600" fill="currentColor">LED STRIP</text><rect x="108" y="55" width="14" height="14" fill="none" stroke="currentColor" stroke-width="1.3"/><text x="96" y="66" text-anchor="end" font-size="12" font-weight="600" fill="currentColor">12V</text><rect x="108" y="77" width="14" height="14" fill="none" stroke="currentColor" stroke-width="1.3"/><text x="96" y="88" text-anchor="end" font-size="12" font-weight="600" fill="currentColor">DAT</text><rect x="108" y="99" width="14" height="14" fill="none" stroke="currentColor" stroke-width="1.3"/><text x="96" y="110" text-anchor="end" font-size="12" font-weight="600" fill="currentColor">GND</text><path d="M122,62 L300,62" fill="none" stroke="#ef4444" stroke-width="3" stroke-linejoin="round" stroke-linecap="round"/><text x="320" y="66" text-anchor="start" font-size="12" font-weight="600" fill="currentColor">+12V</text><path d="M122,84 L300,84" fill="none" stroke="#16a34a" stroke-width="3" stroke-linejoin="round" stroke-linecap="round"/><text x="320" y="88" text-anchor="start" font-size="12" font-weight="600" fill="currentColor">DIN</text><path d="M122,106 L300,106" fill="none" stroke="currentColor" stroke-width="3" stroke-linejoin="round" stroke-linecap="round"/><text x="320" y="110" text-anchor="start" font-size="12" font-weight="600" fill="currentColor">GND</text><rect x="360" y="50" width="160" height="58" rx="6" fill="none" stroke="currentColor" stroke-width="1.5" stroke-dasharray="5 4"/><text x="440" y="75" text-anchor="middle" font-size="13" font-weight="600" fill="currentColor">12 V WS2811 strip</text><text x="440" y="94" text-anchor="middle" font-size="11" fill="#9ca3af">input end (arrow away)</text></svg>
+![](../assets/images/accessories/ncwirelessio-strip.webp)
 <figcaption>Connect the strip's input end (the end its arrows point away from).</figcaption>
 </figure>
 
